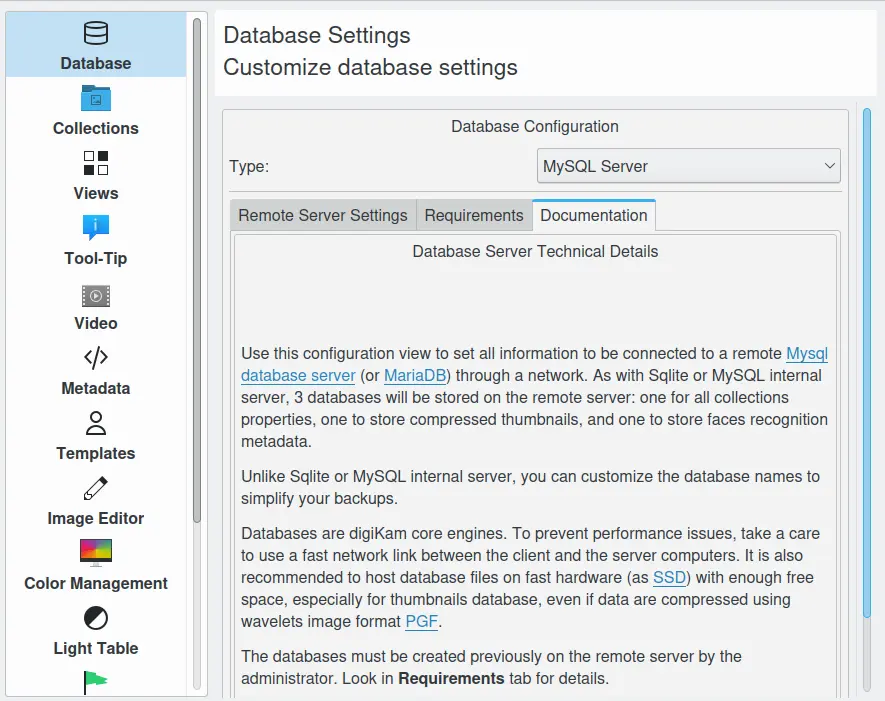
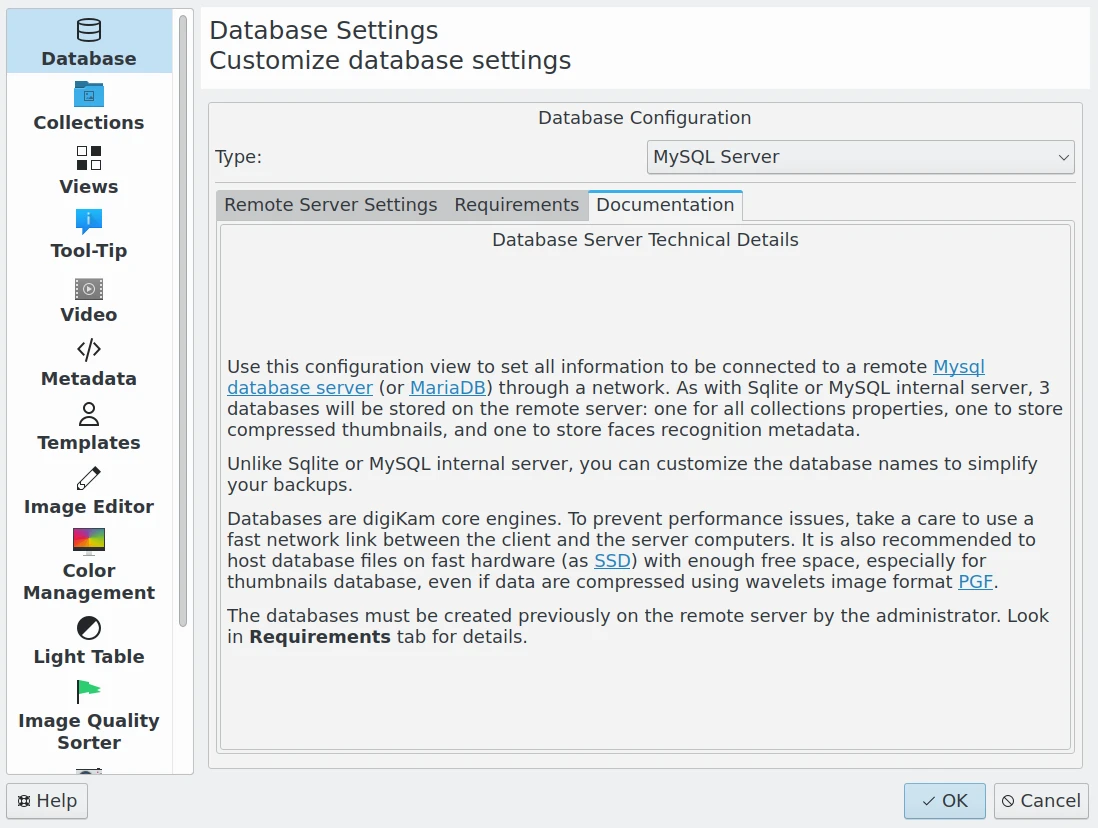
review++

Changed region(s): [[0.0, 0.0, 1.0, 1.0]]

diff --git a/setup_application/config_overview.rst b/setup_application/config_overview.rst
@@ -1,6 +1,6 @@
 .. meta::
    :description: Overview to digiKam Setup Dialog
-   :keywords: digiKam, documentation, user manual, photo management, open source, free, learn, easy
+   :keywords: digiKam, documentation, user manual, photo management, open source, free, learn, easy, setup, configuration
 
 .. metadata-placeholder
 
@@ -15,6 +15,10 @@ Overview
 
 .. contents::
 
-digiKam tries to give you as much control over how it works as possible. There are many options that change the behavior of the application. To access these settings select Settings --> Configure digiKam... from the menubar. The configuration dialog is separated by categories displayed in separated pages. You can change between these pages by clicking on the icons on the left-hand side of the dialog.
+digiKam tries to give you as much control over how it works as possible. There are many options that change the behavior of the application. To access these settings select :menuselection:`Settings --> Configure digiKam...` from the menubar. The configuration dialog is separated by categories displayed in independant pages. You can change between these pages by clicking on the icons on the left-hand side of the dialog.
 
 .. figure:: images/setup_dialog.webp
+
+.. note::
+
+    If you press **Ok** button, the configuration will be saved in your home directory and applied to the current application session. Next Session will re-use the same settings. If you press **Cancel**, nothing will be changed.
